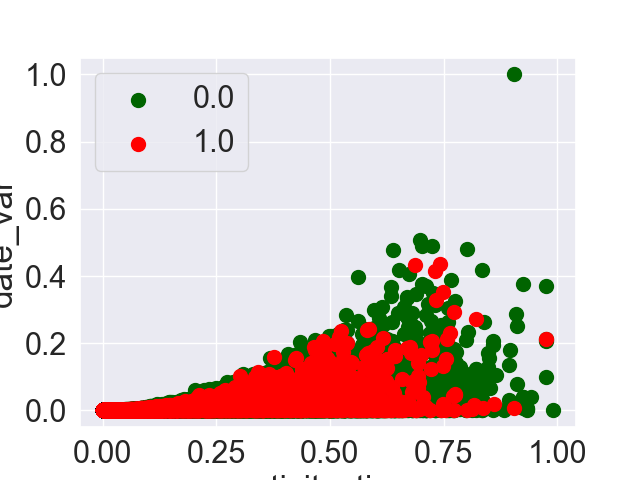
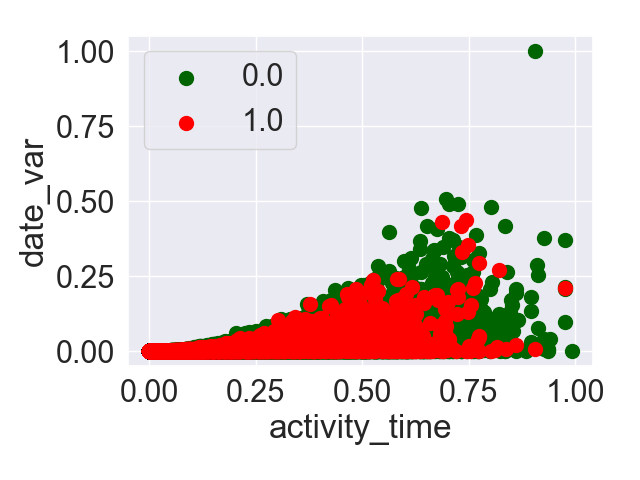
added top 2 features of svm as same as rf

diff --git a/CODE/FFDL_model.py b/CODE/FFDL_model.py
@@ -241,30 +241,29 @@ def test(tt_set, model, device):
     preds = torch.cat(preds, dim=0).numpy()     # concatenate all predictions and convert to a numpy array
     return preds
     
-def run_DL(data, label, feature_ids, top2_features, n_epoches = 2, batch_size = 10, type=''):
-    device = get_device()                 # get the current available device ('cpu' or 'cuda')
+def run_DL(data, label, feature_ids, top2_features, n_epoches=2, batch_size=10, type=''):
+    device = get_device()  # get the current available device ('cpu' or 'cuda')
     rootdir = os.getcwd()
     os.makedirs(os.path.join(rootdir, 'CODE', 'models'), exist_ok=True)  # The trained model will be saved to ./models/
-    target_only = True                   # TODO: Using 40 states & 2 tested_positive features
+    target_only = True  # TODO: Using 40 states & 2 tested_positive features
 
     config = {
-        'n_epochs': n_epoches,                # maximum number of epochs
-        'batch_size': batch_size,               # mini-batch size for dataloader
-        'optimizer': 'Adam',              # optimization algorithm (optimizer in torch.optim)
-        'optim_hparas': {                # hyper-parameters for the optimizer (depends on which optimizer you are using)
-            # 'lr': 0.001,                 # learning rate 
-            # 'momentum': 0.9              # momentum 
+        'n_epochs': n_epoches,  # maximum number of epochs
+        'batch_size': batch_size,  # mini-batch size for dataloader
+        'optimizer': 'Adam',  # optimization algorithm (optimizer in torch.optim)
+        'optim_hparas': {  # hyper-parameters for the optimizer (depends on which optimizer you are using)
+            # 'lr': 0.001,                 # learning rate
+            # 'momentum': 0.9              # momentum
         },
-        'early_stop': 500,               # early stopping epochs (the number epochs since your model's last improvement)
+        'early_stop': 500,  # early stopping epochs (the number epochs since your model's last improvement)
         'save_path': os.path.join(rootdir, 'CODE', 'models', 'model.pth')  # your model will be saved here
     }
-
 
     X_train, X_test, y_train, y_test = train_test_split(data, label, test_size=0.3, random_state=42)
     tr_set = prep_dataloader('train', config['batch_size'], X_train, y_train, feature_ids)
     dv_set = prep_dataloader('dev', config['batch_size'], X_train, y_train, feature_ids)
     tt_set = prep_dataloader('test', config['batch_size'], X_test, y_test, feature_ids)
-    
+
     top1, top2 = top2_features
     feature_1, feature_2 = X_test[top1].to_numpy(), X_test[top2].to_numpy()
 
@@ -274,20 +273,25 @@ def run_DL(data, label, feature_ids, top2_features, n_epoches = 2, batch_size = 
     model.load_state_dict(torch.load(config['save_path']))
     plot_learning_curve(model_loss_record, title='deep model', type=type)
     preds = np.around(test(tt_set, model, device))
+
     # plot top 2 feature space
     cdict = {0: 'darkgreen', 1: 'red'}
+    plt.figure(figsize=(12, 8))  # Adjust the plot size
     fig, ax = plt.subplots()
     for g in np.unique(preds):
         ix = list(np.where(preds == g)[0])
-        ax.scatter(feature_1[ix],feature_2[ix], c = cdict[g], label = g, s = 100)
+        ax.scatter(feature_1[ix], feature_2[ix], c=cdict[g], label=g, s=100)
     ax.legend()
+
     plt.xlabel(top1)
     plt.ylabel(top2)
     plt.legend(loc="upper left")
+    plt.tight_layout()  # Adjust the layout to ensure labels are visible
     plt.savefig(f'{os.getcwd()}/EVALUATIONS/visulaization_{type}.png')
     save_path = ""
     save_pred(preds, save_path + 'pred.csv')
     generate_metrics(y_test, preds, type)
+
     
 def save_pred(preds, file):
     ''' Save predictions to specified file '''
@@ -297,15 +301,3 @@ def save_pred(preds, file):
         writer.writerow(['id', 'tested_positive'])
         for i, p in enumerate(preds):
             writer.writerow([i, p])
-
-# def evaluate(test_labels,y_pred):
-#     tn, fp, fn, tp = confusion_matrix(test_labels, y_pred).ravel()
-#     acc = accuracy_score(test_labels, y_pred)
-#     precision = precision_score(test_labels, y_pred)
-#     sensitivity = recall_score(test_labels, y_pred)
-#     specificity = tn/(tn+fp)
-#     metrics_val = [acc, precision, sensitivity, specificity]
-#     metrics = pd.DataFrame()
-#     metrics["metic_type"] = ['Accuracy', 'Precision', 'Sensitivity', 'Specificity']
-#     metrics["value"] = metrics_val
-#     metrics.to_csv("Metrics.csv", header=False, index=False)

diff --git a/CODE/main.py b/CODE/main.py
@@ -86,7 +86,7 @@ def main():
     union_features = features_df[list(set(rf_top_features).union(set(svm_top_features)))]
     intersect_features = features_df[list(set(rf_top_features).intersection(set(svm_top_features)))]
     top2_rf = rf_top_features[:2]
-    # top2_svm = svm_top_features[:2]
+    top2_svm = svm_top_features[0] + svm_top_features[-1]
     print("trainin DL model with all features")
     run_DL(features_df, labels, feature_id, top2_rf , n_epoches = 100, batch_size = 256, type="DL_all")
 
@@ -94,11 +94,11 @@ def main():
     run_DL(rf_features, labels, feature_id, top2_rf , n_epoches = 100, batch_size = 256, type="DL_rf")
 
     print("trainin DL model with selected features by SVM features")
-    run_DL(svm_features, labels, feature_id, top2_svm , n_epoches = 100, batch_size = 256, type="DL_svm")
+    run_DL(svm_features, labels, feature_id, top2_rf , n_epoches = 100, batch_size = 256, type="DL_svm")
 
     print("trainin DL model with union of features")
     feature_id = range(len(union_features))
-    run_DL(union_features, labels, feature_id, top2_svm , n_epoches = 100, batch_size = 256, type="union")
+    run_DL(union_features, labels, feature_id, top2_rf , n_epoches = 100, batch_size = 256, type="union")
 
     print("trainin DL model with intersection of features")
     feature_id = range(len(intersect_features))

diff --git a/CODE/feature_extraction.py b/CODE/feature_extraction.py
@@ -124,7 +124,6 @@ def generate_metrics(true_labels, predicted_labels, evaluation_type):
     print(tabulate(metrics_df, headers='keys', tablefmt='psql'))
 
 
-
 """
 We created a helper function calculate_singleton() below to calculate singleton values.
 This function is called by review_metadata().
